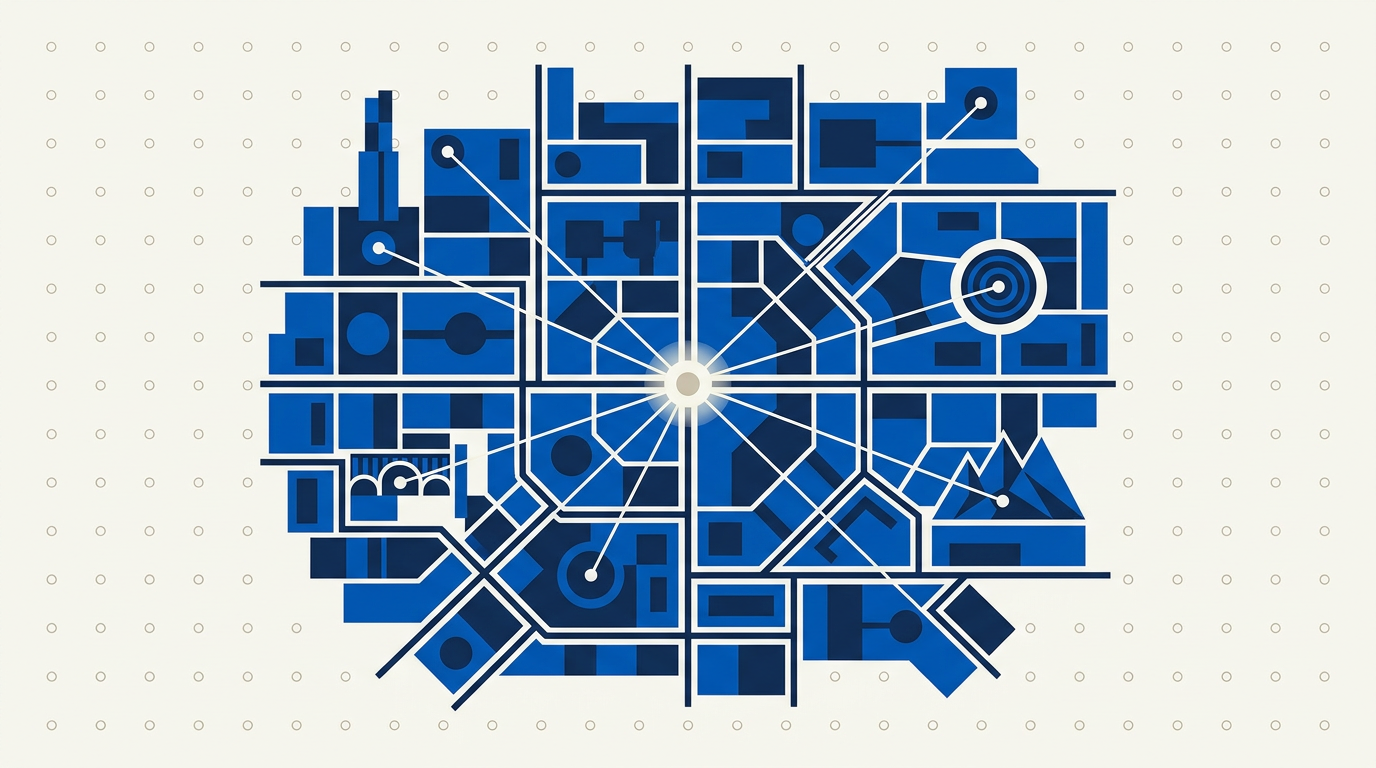
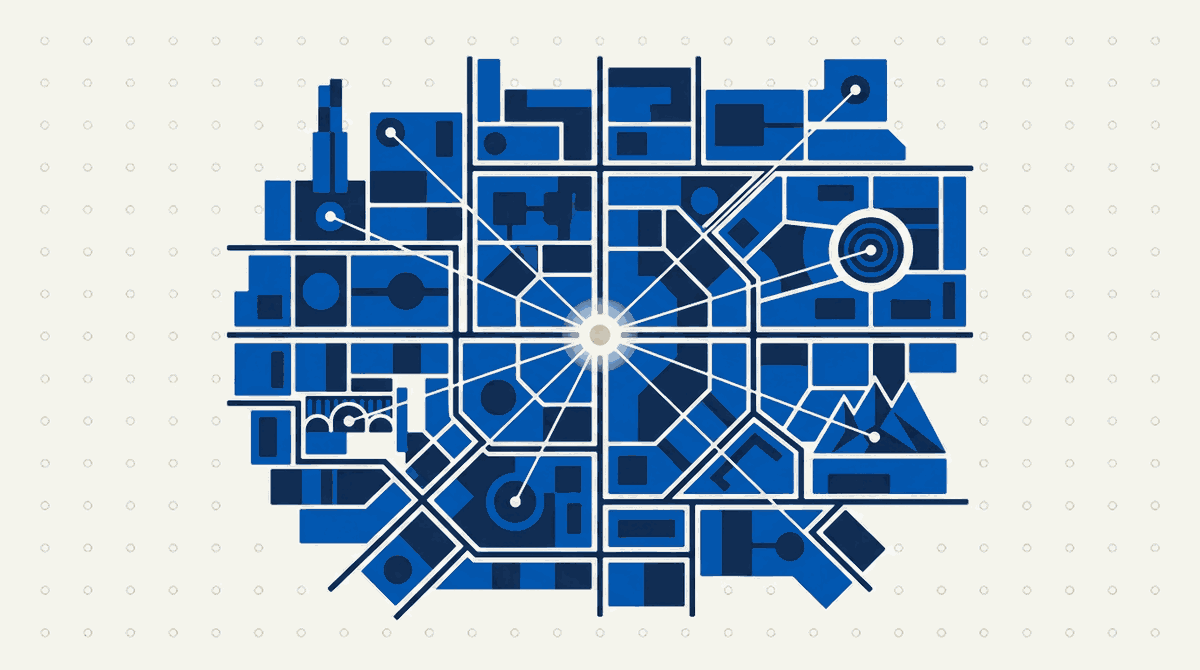
docs: add flowcharts and illustrations to manual
- Added Mermaid flowchart diagrams to reference documentation sections visualizing API architecture, metrics pipelines, data limits, and write states
- Updated hero and part introduction artwork

diff --git a/docs/05-reference/gbp-capability-matrix.md b/docs/05-reference/gbp-capability-matrix.md
@@ -113,6 +113,18 @@ Google split the old My Business API into eight named services: Account Manageme
 
 That sentence is the whole architecture. The v1 APIs got the administrative surface. The revenue-relevant surface — reviews, photos, posts, menus — stayed in v4 and has no announced successor.
 
+```mermaid
+flowchart TD
+  A["The old My Business API"] --> B["Eight v1 services —<br/>the administrative surface"]
+  A --> C["Google My Business 4.9 —<br/>the legacy remnant"]
+  A --> D["Retired"]
+  B --> B1["Accounts · Business Information ·<br/>Performance · Verifications ·<br/>Notifications · Place Actions · Lodging"]
+  C --> C1["Reviews · Media · Local Posts · Food menus<br/>— no migration path published,<br/>and still receiving features"]
+  D --> D1["Q&A, switched off 2025-11-03 ·<br/>per-post insights · business calls"]
+```
+
+*The split is not a tidying exercise, it is where the value sits. Everything a client pays you to touch is in the middle branch — the one with no successor — and the branch that got the versioning discipline is the one that manages accounts.*
+
 **Note on the FAQ itself:** as read on 2026-07-27 it still lists "My Business Q&A API" among the eight current APIs, more than eight months after Google discontinued it ([LSM-GBP-12](#lsm-gbp-12--the-qa-api-is-gone-and-google-never-added-it-to-the-deprecation-table)).
 
 **What to do instead:** design any client with the v4 calls behind a seam. Not because v4 is going away on a known date — nothing says it is — but because the one API carrying your most valuable capabilities is the one with no migration path published.

diff --git a/docs/05-reference/what-places-returns.md b/docs/05-reference/what-places-returns.md
@@ -33,6 +33,19 @@ The current tier membership of each field is published by Google and moves; read
 
 ## What Places will not give you at any price
 
+These are ceilings, not settings. No field mask, plan or budget moves them, which is why they shape what any product built on public place data can honestly claim:
+
+```mermaid
+flowchart LR
+  A["Public place data"] --> B["At most 20 places<br/>per Text Search request"]
+  A --> C["At most five reviews per place,<br/>chosen by Google"]
+  A --> D["No owner-written<br/>business description"]
+  A --> E["Pure service-area businesses<br/>excluded unless asked for —<br/>and then carrying no location"]
+  A --> F["Low-prominence businesses<br/>that Autocomplete still returns"]
+```
+
+*Every one of these is a limit somebody eventually reports to you as a bug in your product. Three of them dissolve the moment the owner connects — the review history, the description, and the service-area business. The other two are properties of public place search itself, which is why a rank check has a depth floor no vendor can lower.*
+
 ### LSM-PLACES-07 · One Text Search request returns at most 20 places
 
 **Verdict:** WORKS

diff --git a/docs/05-reference/what-googles-reporting-hides.md b/docs/05-reference/what-googles-reporting-hides.md
@@ -16,6 +16,19 @@ Where an entry cites a Google document, the quote is verbatim, the document's ow
 
 ## Business Profile performance
 
+The six entries below are one pipeline, and they compound. What a client reads as "profile views this month" has passed through every stage of it:
+
+```mermaid
+flowchart TD
+  A["You request a daily range"] --> B["Four impression enums,<br/>never a combined one —<br/>the sum is your construction"]
+  B --> C["Each deduped per user per day,<br/>within its own enum only"]
+  C --> D["The freshest days may be absent,<br/>and may still change later"]
+  D --> E["Whether quiet days come back at all<br/>is undocumented — count what arrived"]
+  E --> F["One number on a client's report"]
+```
+
+*No stage here is a defect, and none of it is hidden — it is all in the reference. What is missing is any signal in the response that a stage happened, which is why the arithmetic has to be documented by whoever prints the last box.*
+
 ### LSM-MEASURE-01 · There is no "profile views" metric — you sum four impression enums
 
 **Verdict:** WORKS

diff --git a/docs/05-reference/write-limits-and-failure-modes.md b/docs/05-reference/write-limits-and-failure-modes.md
@@ -10,6 +10,20 @@ Reads fail loudly. Writes fail quietly: the call returns 200, the field does not
 
 Every entry stands alone. `Last verified` is the day the probe last ran, never the day the prose was edited.
 
+Four states, and only one of them is what you meant to report:
+
+```mermaid
+flowchart TD
+  A["You send a write"] --> B{"2xx?"}
+  B -->|"No"| L["Loud failure — status code,<br/>usually a field-level message.<br/>The easy case"]
+  B -->|"Yes"| C{"Is the change<br/>live on Google?"}
+  C -->|"Not yet"| D["Accepted, not published.<br/>Review takes minutes,<br/>occasionally weeks"]
+  C -->|"Never"| E["Silent: rejected after creation,<br/>reverted, or a field the mask<br/>quietly unset"]
+  C -->|"Yes"| F["Published — read it back<br/>before you claim it"]
+```
+
+*Most of this chapter is the two middle branches. They share a symptom — a 200 and a happy log line — and they are the reason "verify by reading it back" appears in every write procedure in this manual.*
+
 ## Failure-mode index
 
 Search this table by the string you actually saw.
